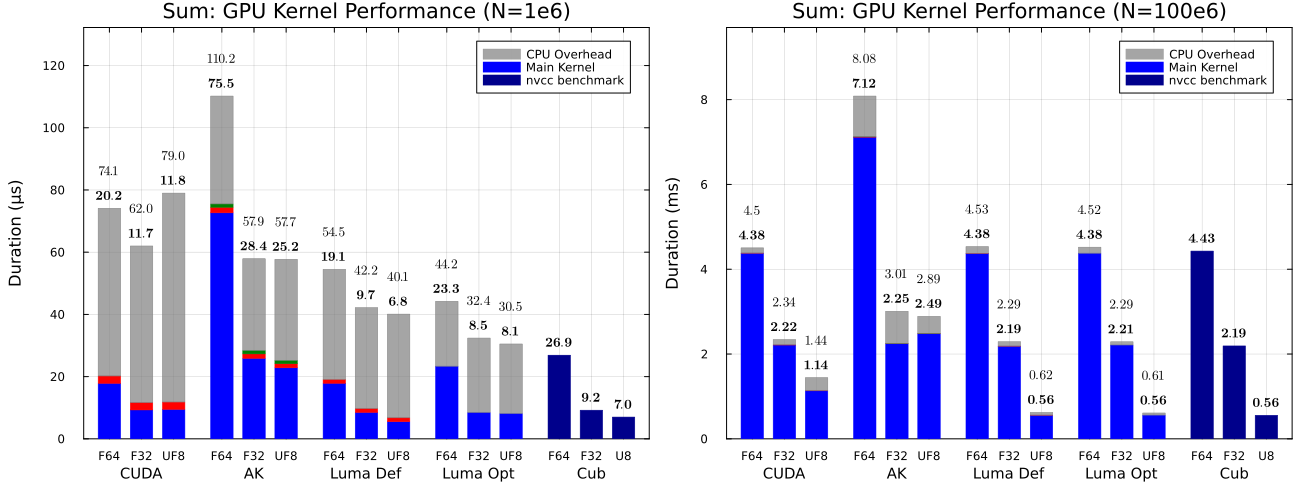
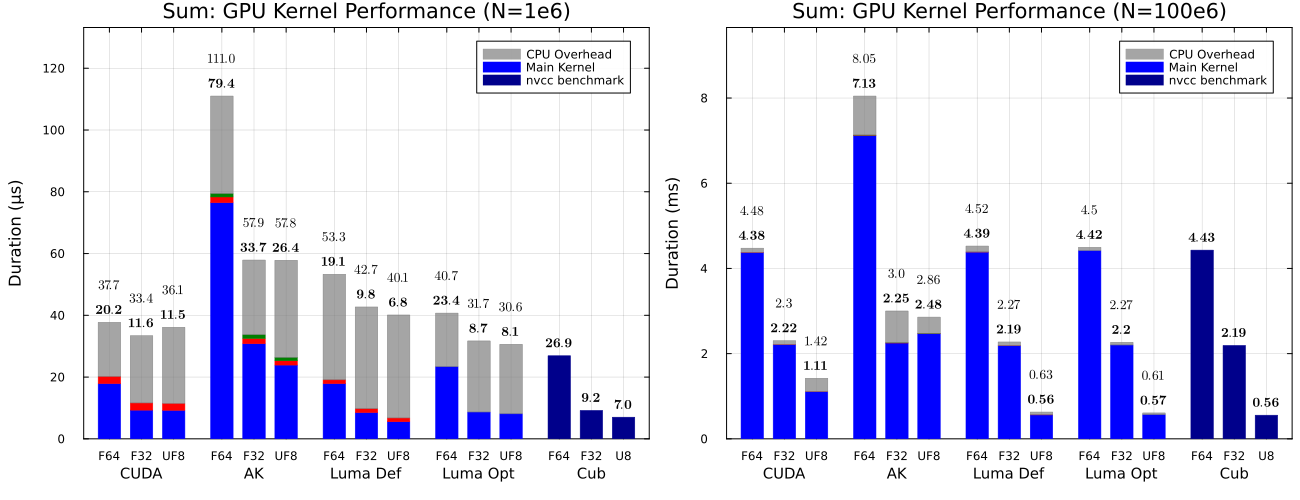
readme, organization

diff --git a/README.md b/README.md
@@ -1,6 +1,6 @@
 # Luma.jl
 
-High-performance GPU computing primitives for Julia, providing portable implementations of common parallel algorithms.
+High-performance, portable GPU primitives for Julia. Pure Julia implementation with performance competitive against optimized CUDA C++ libraries.
 
 ## Installation
 
@@ -11,10 +11,37 @@ Pkg.add("Luma")
 
 ## Features
 
-- **Vectorized memory operations** with configurable load/store widths
+- **Vectorized copy** with configurable load/store widths
 - **Map-reduce** with custom functions and operators
 - **Prefix scan** supporting non-commutative operations
-- Cross-platform GPU support via KernelAbstractions.jl
+- Currently only for 1D arrays, with plans for multi-dimensional support
+- Currently CUDA-only; cross-platform support via KernelAbstractions.jl planned
+- Includes `UnitFloat8`, a custom 8-bit floating-point type with range (-1, 1) for testing
+
+
+## Performances
+
+Luma.jl achieves performance comparable to optimized CUDA C++ libraries such as CUB and Thrust.
+
+### Copy Performance
+
+Cub optimizes copy for large input sizes (byte size of dst + src $\geq$ L2 cache size), while KernelAbstractions.jl performs better on smaller arrays. Our vcopy! function can be tuned via parameters to achieve high performance across all input sizes. Automatic adaptation based on L2 cache size could be planned in future releases.
+
+![](perfs/cuda/figures/combined_plot_copy.png)
+
+### Map-Reduce Performance
+
+For map-reduce, Luma.jl matches CUDA.jl performance on Float32 (slightly better with UInt64 flags, yielding success probability $> 1 - 2^{-64}$), and significantly outperforms it on smaller types (UInt8, UnitFloat8) even with Float32 conversion. This speedup stems from optimized memory access patterns and vectorized loads/stores.
+
+
+![](perfs/cuda/figures/mapreduce_nof64_1e6_1e8.png)
+
+### Scan Performance
+
+Our scan rivals CUB performance on Float32 and Float64, while also supporting non-commutative operations and custom types like Quaternions—enabled by an efficient decoupled lookback algorithm and optimized memory access.
+
+![](perfs/cuda/figures/combined_plot_scan.png)
+
 
 ## Examples
 
